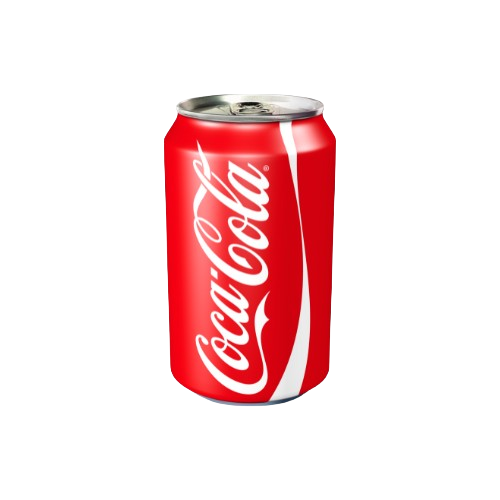
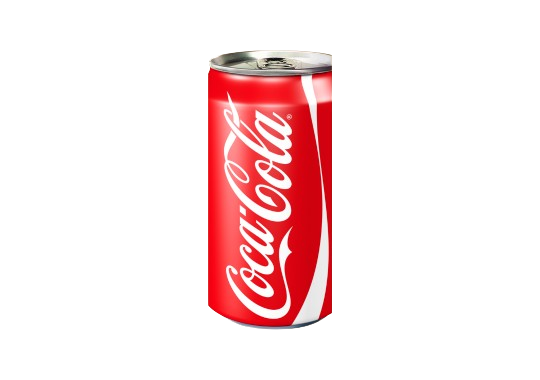
update

Changed region(s): [[0.33, 0.1158, 0.69, 0.8684]]

diff --git a/Tilaussivusto.html b/Tilaussivusto.html
@@ -384,12 +384,22 @@
                     </div>
                     
                     <h1>Juomat</h1>
-                    <div class="juoma-container">
-                        <div class="juoma" onclick="addToOrder('Mirinda', '3.40')">
+                    <div class="pizza-container">
+                        <div class="pizza" onclick="addToOrder('Mirinda', '3.40')">
                             <img src="images/mi.png" alt="mirinda">
-                            <span class="pizza-nimi">Mirinda</span> <span class="pizza-hinta"><span class="price-background">3,40 €</span> </span>
+                            <span class="pizza-nimi">Mirinda</span> <span class="pizza-hinta"><span class="price-background">3,40 €</span> </span>                            
                         </div>
-                        
+                        <div class="pizza">
+                            <img src="images/pepsi.png" alt="pepsi">
+                            <span class="pizza-nimi">Pepsi</span> <span class="pizza-hinta"><span class="price-background">3,50 €</span> </span>
+                        </div>
+                        <div class="pizza">
+                            <img src="images/coca.png" alt="coca">
+                            <span class="pizza-nimi">Coca Cola</span> <span class="pizza-hinta"><span class="price-background">3,60 €</span> </span>
+                            <ul class="list-group list-group-flush">
+                                <li>Coca-Cola 0,25L Tölkki</li>                                
+                            </ul>
+                        </div>
                     </div>
 
                     <script>
